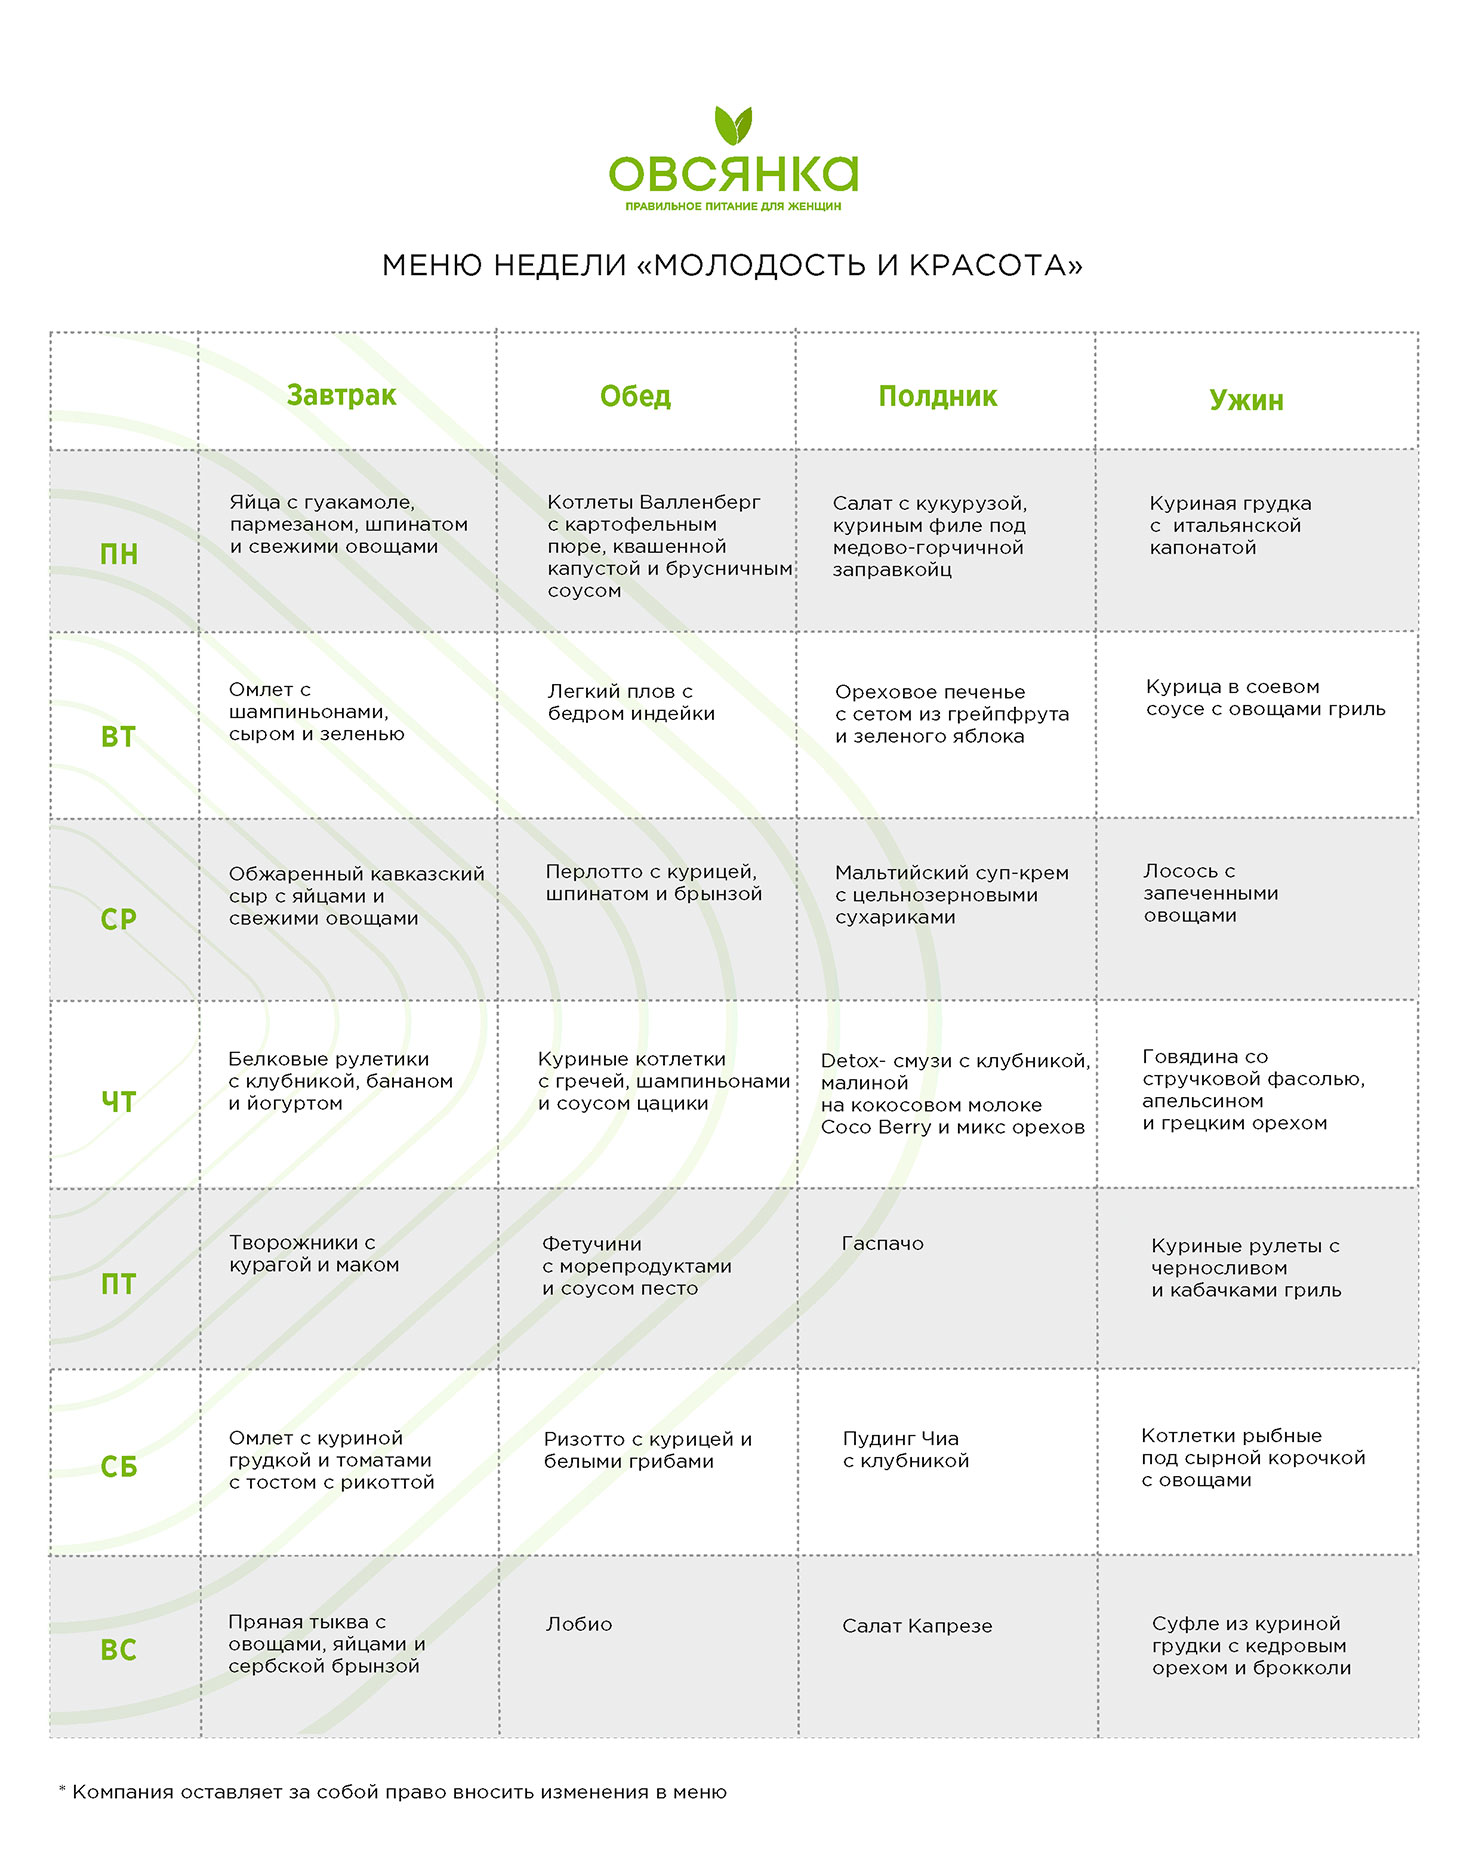
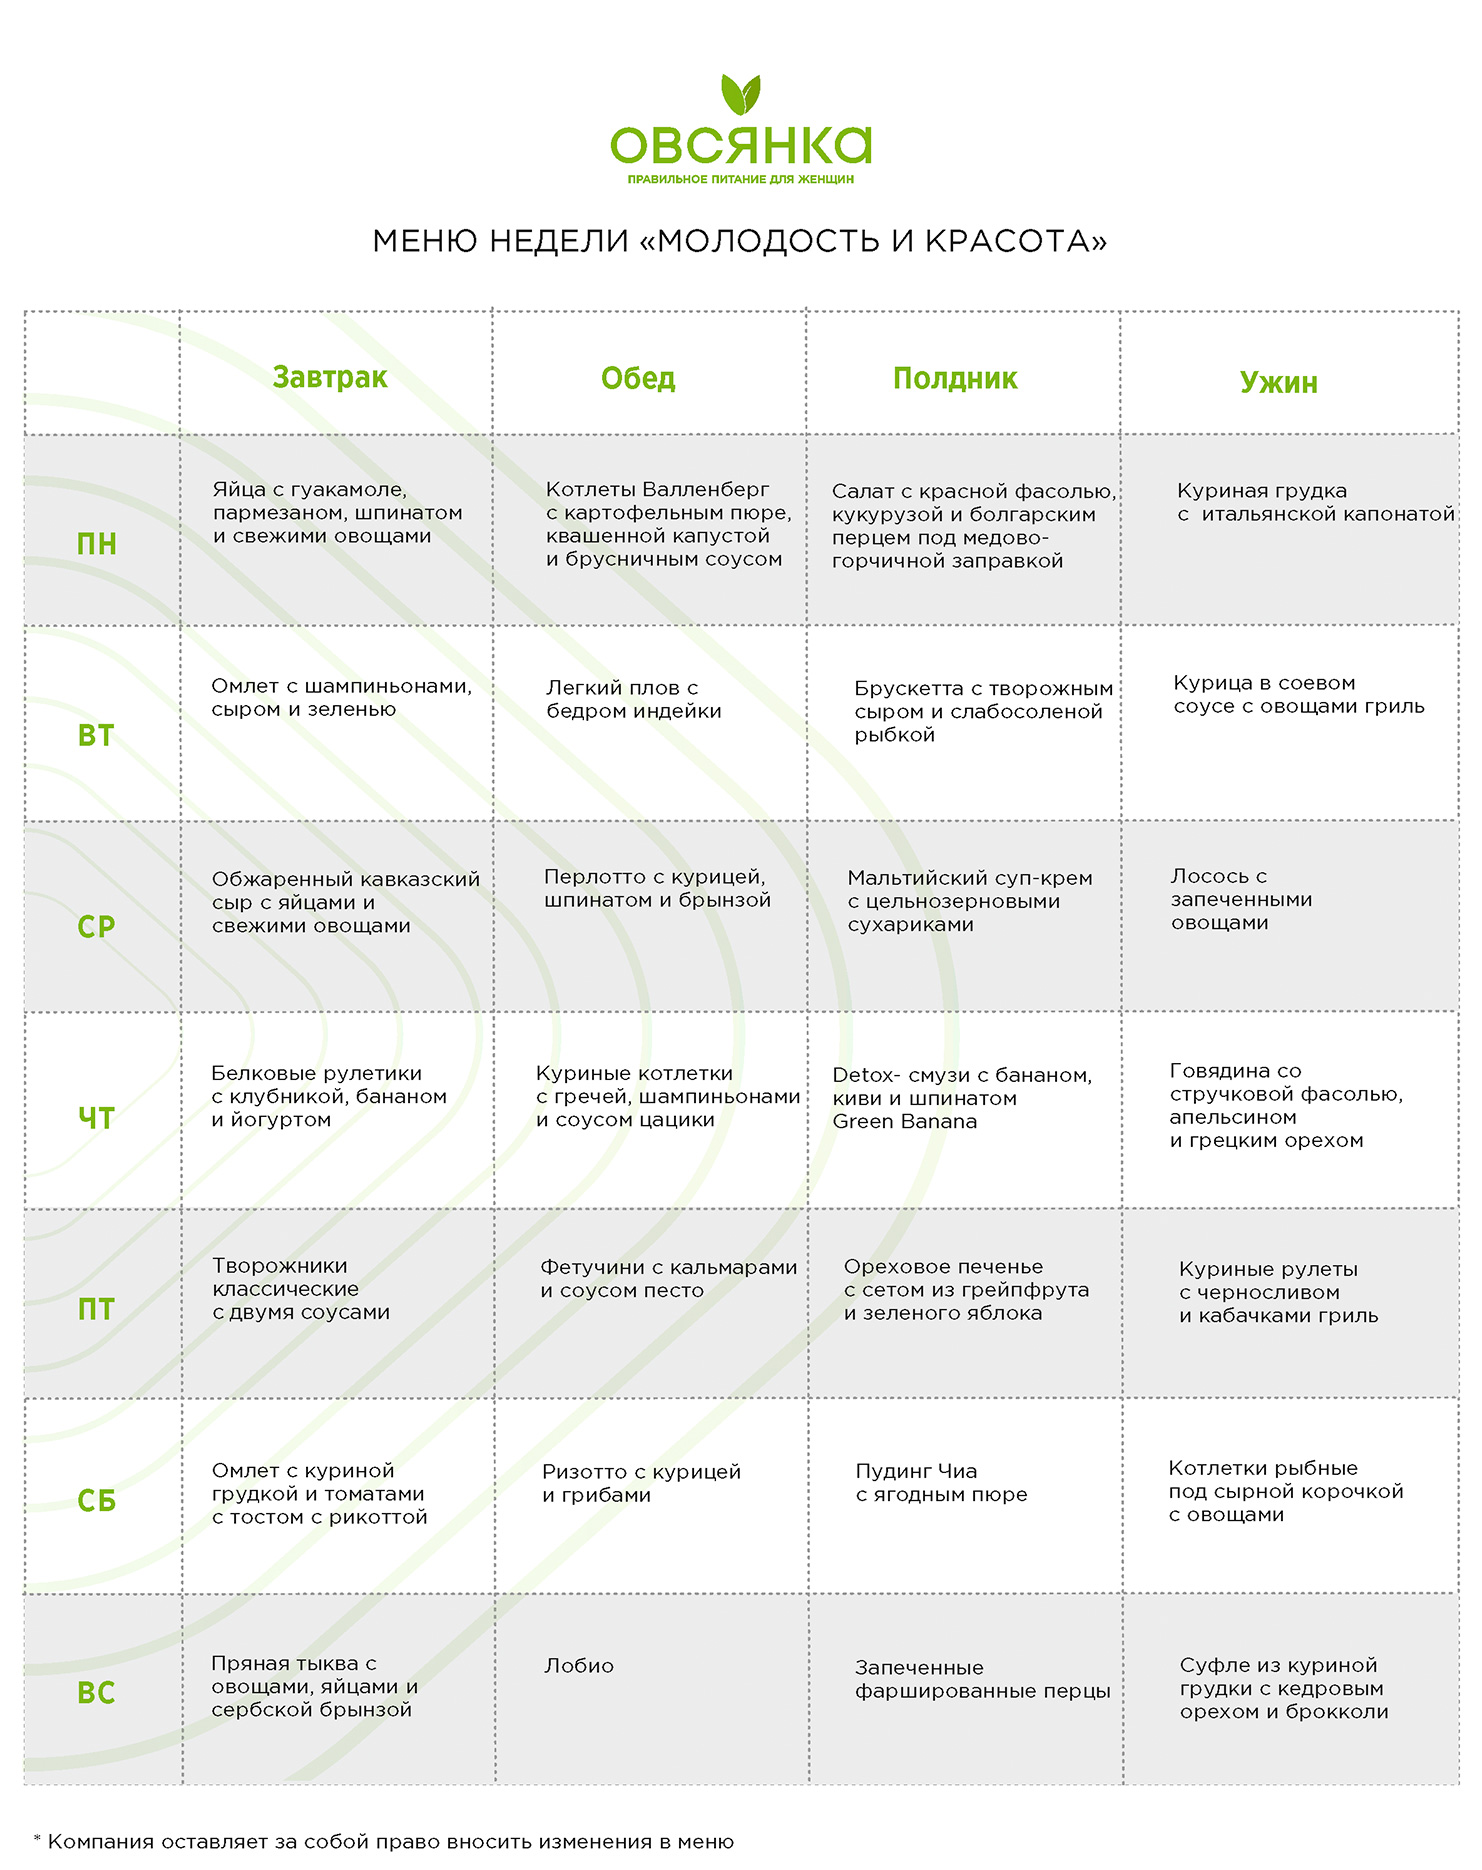
Обновление меню
Обновили всё меню и убрали глютен их веганского рациона.

diff --git a/app/containers/HomePage/initData.js b/app/containers/HomePage/initData.js
@@ -70,7 +70,7 @@ export const catalog = {
         'https://drive.google.com/file/d/1sApipOYOdSsTfDgICudkNUxZntA2uVTY/view',
       shortDescription: 'Очищение и отщелачивание',
       description:
-        'Рацион исключает продукты животного происхождения, глютен, сахар. Состоит из 4-х приемов пищи, детокс воды и витграсса (сок из молодых побегов пшеницы, мощнейший антиоксидант). Включает все многообразие злаковых безглютеновых культур, овощей, зелени, ягод, фруктов и орехов.',
+        'Рацион исключает продукты животного происхождения, сахар. Состоит из 5-ти приемов пищи, детокс воды и витграсса (сок из молодых побегов пшеницы, мощнейший антиоксидант). Включает все многообразие злаковых и бобовых культур.',
       properties: 'Ккал 1100',
       priceProperties: ['Стоимость 1200 р/день'],
     },
